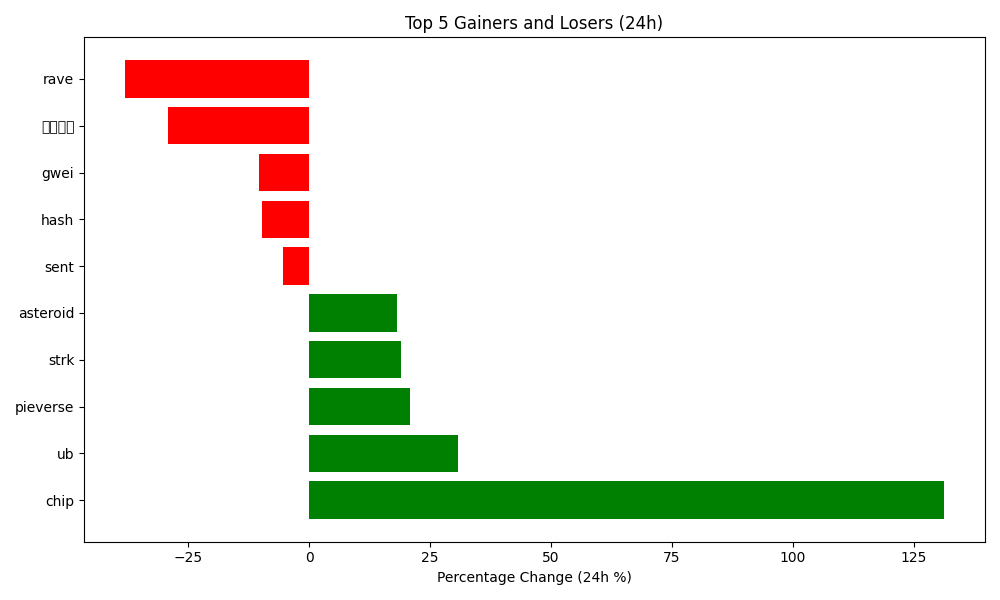
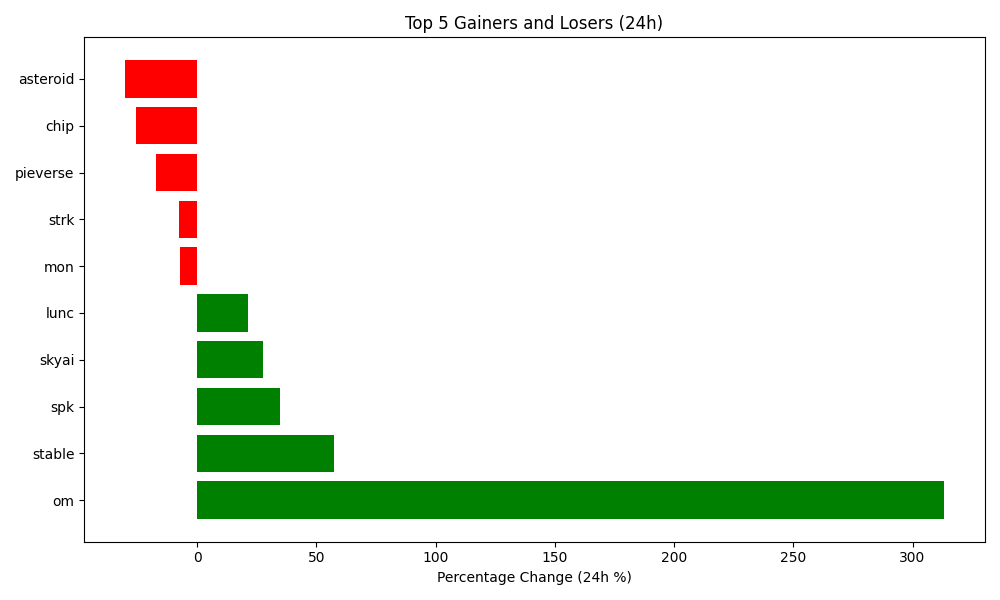
Auto-update crypto data and plot

diff --git a/README.md b/README.md
@@ -4,7 +4,7 @@ Author: Hitesh Agrawal
 This repository automatically tracks the top 5 gaining, top 5 losing, and top 5 highest volume cryptocurrencies in the last 24 hours using the CoinGecko API, Python, Matplotlib, and GitHub Actions updates the below content everyday at midnight.
 
 <!-- START_DYNAMIC_CONTENT -->
-Last updated: 2026-04-23 01:59 UTC
+Last updated: 2026-04-24 01:59 UTC
 
 ![Crypto Movers Plot](crypto_movers_plot.png)
 
@@ -12,33 +12,33 @@ Last updated: 2026-04-23 01:59 UTC
 
 | Rank | Coin | Price Change (24h %) | Volume (USD) | Current Price (USD) |
 | :--: | :--: | :------------------: | :----------: | :-----------------: |
-| 1 | chip | 131.23% | $2,010,070,660 | $0.1342 |
-| 2 | ub | 30.72% | $54,563,138 | $0.0597 |
-| 3 | pieverse | 20.87% | $228,339,129 | $1.0360 |
-| 4 | strk | 18.94% | $125,875,796 | $0.0461 |
-| 5 | asteroid | 18.12% | $56,324,504 | $0.0004 |
+| 1 | om | 313.22% | $6,492 | $0.0668 |
+| 2 | stable | 57.45% | $62,266,969 | $0.0414 |
+| 3 | spk | 34.96% | $766,333,222 | $0.0512 |
+| 4 | skyai | 27.79% | $36,273,982 | $0.2128 |
+| 5 | lunc | 21.42% | $41,403,623 | $0.0001 |
 
 
 **👇 Top 5 Losers (24h)**
 
 | Rank | Coin | Price Change (24h %) | Volume (USD) | Current Price (USD) |
 | :--: | :--: | :------------------: | :----------: | :-----------------: |
-| 1 | rave | -38.02% | $124,563,077 | $0.9047 |
-| 2 | 币安人生 | -29.23% | $94,902,230 | $0.3365 |
-| 3 | gwei | -10.39% | $13,517,424 | $0.1003 |
-| 4 | hash | -9.73% | $30,610 | $0.0103 |
-| 5 | sent | -5.36% | $18,024,738 | $0.0174 |
+| 1 | asteroid | -30.20% | $71,230,965 | $0.0003 |
+| 2 | chip | -25.78% | $1,369,690,301 | $0.0996 |
+| 3 | pieverse | -17.16% | $58,706,305 | $0.8576 |
+| 4 | strk | -7.74% | $127,581,295 | $0.0426 |
+| 5 | mon | -7.36% | $63,528,486 | $0.0315 |
 
 
 **💎 Top 5 by Trade Volume (24h)**
 
 | Rank | Coin | Price Change (24h %) | Volume (USD) | Current Price (USD) |
 | :--: | :--: | :------------------: | :----------: | :-----------------: |
-| 1 | usdt | 0.00% | $83,355,137,155 | $1.0000 |
-| 2 | btc | 2.66% | $52,464,886,316 | $78,356.0000 |
-| 3 | eth | 1.85% | $23,201,365,627 | $2,366.7200 |
-| 4 | usdc | 0.00% | $18,556,891,253 | $0.9998 |
-| 5 | sol | 0.16% | $4,422,536,082 | $86.4000 |
+| 1 | usdt | 0.00% | $67,672,866,936 | $1.0000 |
+| 2 | btc | 0.12% | $40,106,589,458 | $78,450.0000 |
+| 3 | eth | -1.42% | $17,597,756,311 | $2,333.2200 |
+| 4 | usdc | 0.01% | $15,883,506,400 | $0.9999 |
+| 5 | sol | -0.17% | $3,757,641,172 | $86.3000 |
 
 
 <!-- END_DYNAMIC_CONTENT -->
